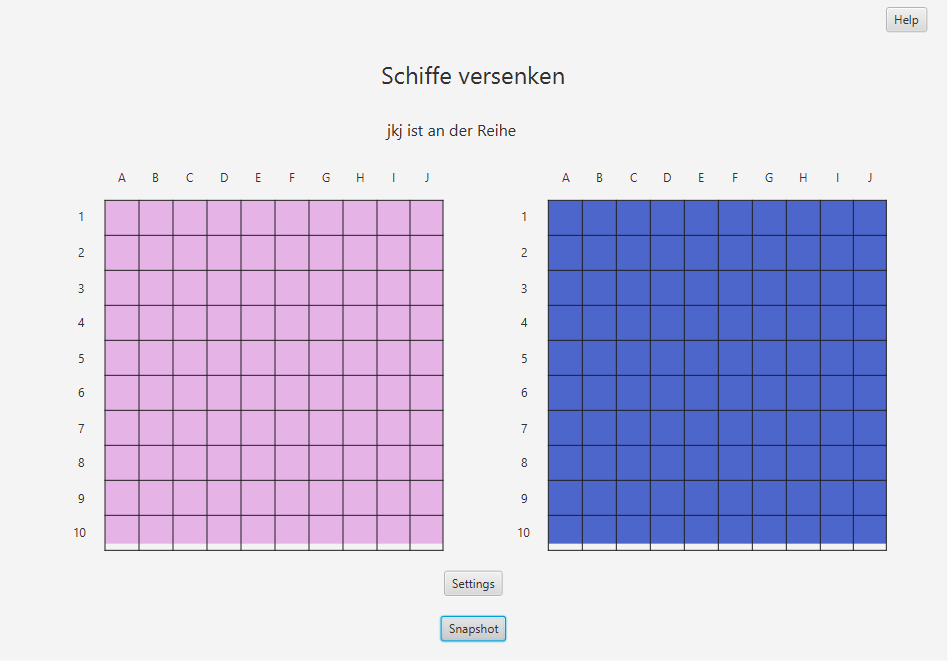
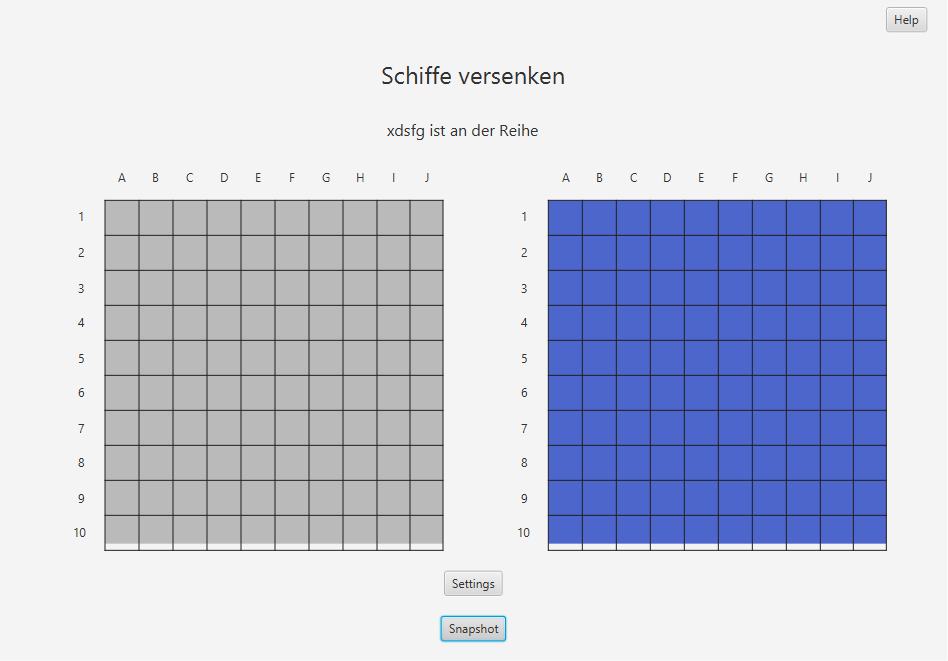
Kommentare der Klassen

Changed region(s): [[0.0918, 0.3026, 0.4895, 0.8472], [0.3977, 0.1815, 0.5812, 0.2118]]

diff --git a/src/main/java/controller/PlayfieldController.java b/src/main/java/controller/PlayfieldController.java
@@ -27,7 +27,6 @@ import javax.imageio.ImageIO;
 import java.awt.image.RenderedImage;
 import java.io.IOException;
 import java.net.URL;
-import java.util.Arrays;
 
 public class PlayfieldController {
     static Coordinate[] coordinates = new Coordinate[10];
@@ -51,18 +50,22 @@ public class PlayfieldController {
     int k = 10;
     int lenght = 3;
 
+    /**
+     * @param spieler1
+     * @param spieler2
+     * @author: skimeswe
+     */
     public PlayfieldController(Player spieler1, Player spieler2) {
         this.spieler1 = spieler1;
         this.spieler2 = spieler2;
-        /*
-        konstruktor
-         */
     }
 
+    /**
+     * @author: skimeswe
+     * parameterloser Konstruktor ist fürs Laden des FXMLs notwenig
+     */
     public PlayfieldController() {
-        /*
-        konstruktor für das FXML zum Laden
-         */
+
     }
 
     public void setUser1(Player player) {
@@ -74,17 +77,29 @@ public class PlayfieldController {
         spieler2 = player1;
     }
 
+    /**
+     * @author: skimeswe
+     * Die Methode die nach dem Scene wechseln aufgerufen wird. Ruft die togglePlayer Methode auf und setzt die Farben
+     */
     public void afterSwitch() {
         enterSettings.setText("Settings");
         togglePlayer();
         setColor();
     }
 
+    /**
+     * @author: skimeswe
+     * die Farbe des Spieler wird gesetzt. das # ist notwendig um einen gültigen CSS-RGB code zu haben
+     */
     public void setColor() {
         boardView.setStyle("-fx-background-color: #" + toRGBCode(spieler1.getColor()));
         boardView1.setStyle("-fx-background-color: #" + toRGBCode(spieler2.getColor()));
     }
 
+    /**
+     * @author: skimeswe
+     * TogglePlayer-Methode wechselt den aktuellen Spieler und gibt diesen im Label aus.
+     */
     public void togglePlayer() {
         if (current == spieler1) {
             currentPlayer.setText(spieler1.getName() + " ist an der Reihe");
@@ -95,6 +110,10 @@ public class PlayfieldController {
         }
     }
 
+    /**
+     * @author: skimeswe
+     * diese Methode returned einen vollständigen RGB CODE
+     */
     private static String toRGBCode(Color color) {
         String returner = color.toString();
         returner = returner.substring(2);
@@ -156,10 +175,13 @@ public class PlayfieldController {
                 p2playfield1.placeShip(ship);
             }
         }
-
-
     }
 
+    /**
+     * @param actionEvent
+     * @throws IOException
+     * @author: skimeswe
+     */
     public void settings(ActionEvent actionEvent) throws IOException {
         Stage stage = new Stage();
 

diff --git a/src/main/java/model/Playfield.java b/src/main/java/model/Playfield.java
@@ -39,6 +39,7 @@ public class Playfield {
      * Diese Methode prüft, ob sich auf der gewählten Position ein Schiff befindet.
      *
      * @param ship
+     * @author: skimeswe
      */
     public boolean checkShip(Ship ship) {
         boolean rv = true;
@@ -56,6 +57,11 @@ public class Playfield {
 
     }
 
+    /**
+     * @param ship
+     * @author: skimeswe
+     * diese Methode plaziert die Schiffe mittels der Koordinaten
+     */
     public void placeShip(Ship ship) {
         Iterator<Coordinate> iterator = ship.coords.iterator();
         while (iterator.hasNext()) {
@@ -71,6 +77,7 @@ public class Playfield {
     /**
      * @param coordinate Die zu überprüfende Koordinate
      * @return Falls die Koordinate EMPTY oder SCHIFF aufweist, returnt diese Funktion true, ansonsten false
+     * @author: skimeswe
      */
     public boolean checkHit(Coordinate coordinate) {
         boolean rv = false;
@@ -84,8 +91,8 @@ public class Playfield {
 
     /**
      * Ein Schuss wird platziert.
-     * @param coordinate
-     * @return
+     *
+     * @author: skimeswe
      */
     public int placeHit(Coordinate coordinate) {
         if (feld[coordinate.getX()][coordinate.getY()] == 1 || feld[coordinate.getX()][coordinate.getY()] == 3) {

diff --git a/src/main/java/controller/SplashController.java b/src/main/java/controller/SplashController.java
@@ -13,6 +13,7 @@ import javafx.stage.StageStyle;
 
 import java.io.IOException;
 import java.net.URL;
+import java.util.Objects;
 import java.util.ResourceBundle;
 import java.util.logging.Level;
 import java.util.logging.Logger;
@@ -50,7 +51,7 @@ public class SplashController implements Initializable {
                     @Override
                     public void run() {
                         try {
-                            AnchorPane = FXMLLoader.load(getClass().getResource("/FXML/Settings1.fxml"));
+                            AnchorPane = FXMLLoader.load(Objects.requireNonNull(getClass().getResource("/FXML/Settings1.fxml")));
                             Stage stage = new Stage();
                             Scene scene = new Scene(AnchorPane);
                             scene.setFill(Color.TRANSPARENT);

diff --git a/src/main/java/controller/SettingsController.java b/src/main/java/controller/SettingsController.java
@@ -78,6 +78,11 @@ public class SettingsController {
         shiplist.add(ship3);
     }
 
+    /**
+     * @throws IOException Diese Methode ist notwendig um die Scene zu wechseln, da ein parameterloser
+     *                     Konstruktor notwendig ist, werden die Parametter mittels dem PlayfieldController übergeben
+     * @author: skimeswe
+     */
     public void change_scene() throws IOException {
 
         Stage stage = new Stage();
